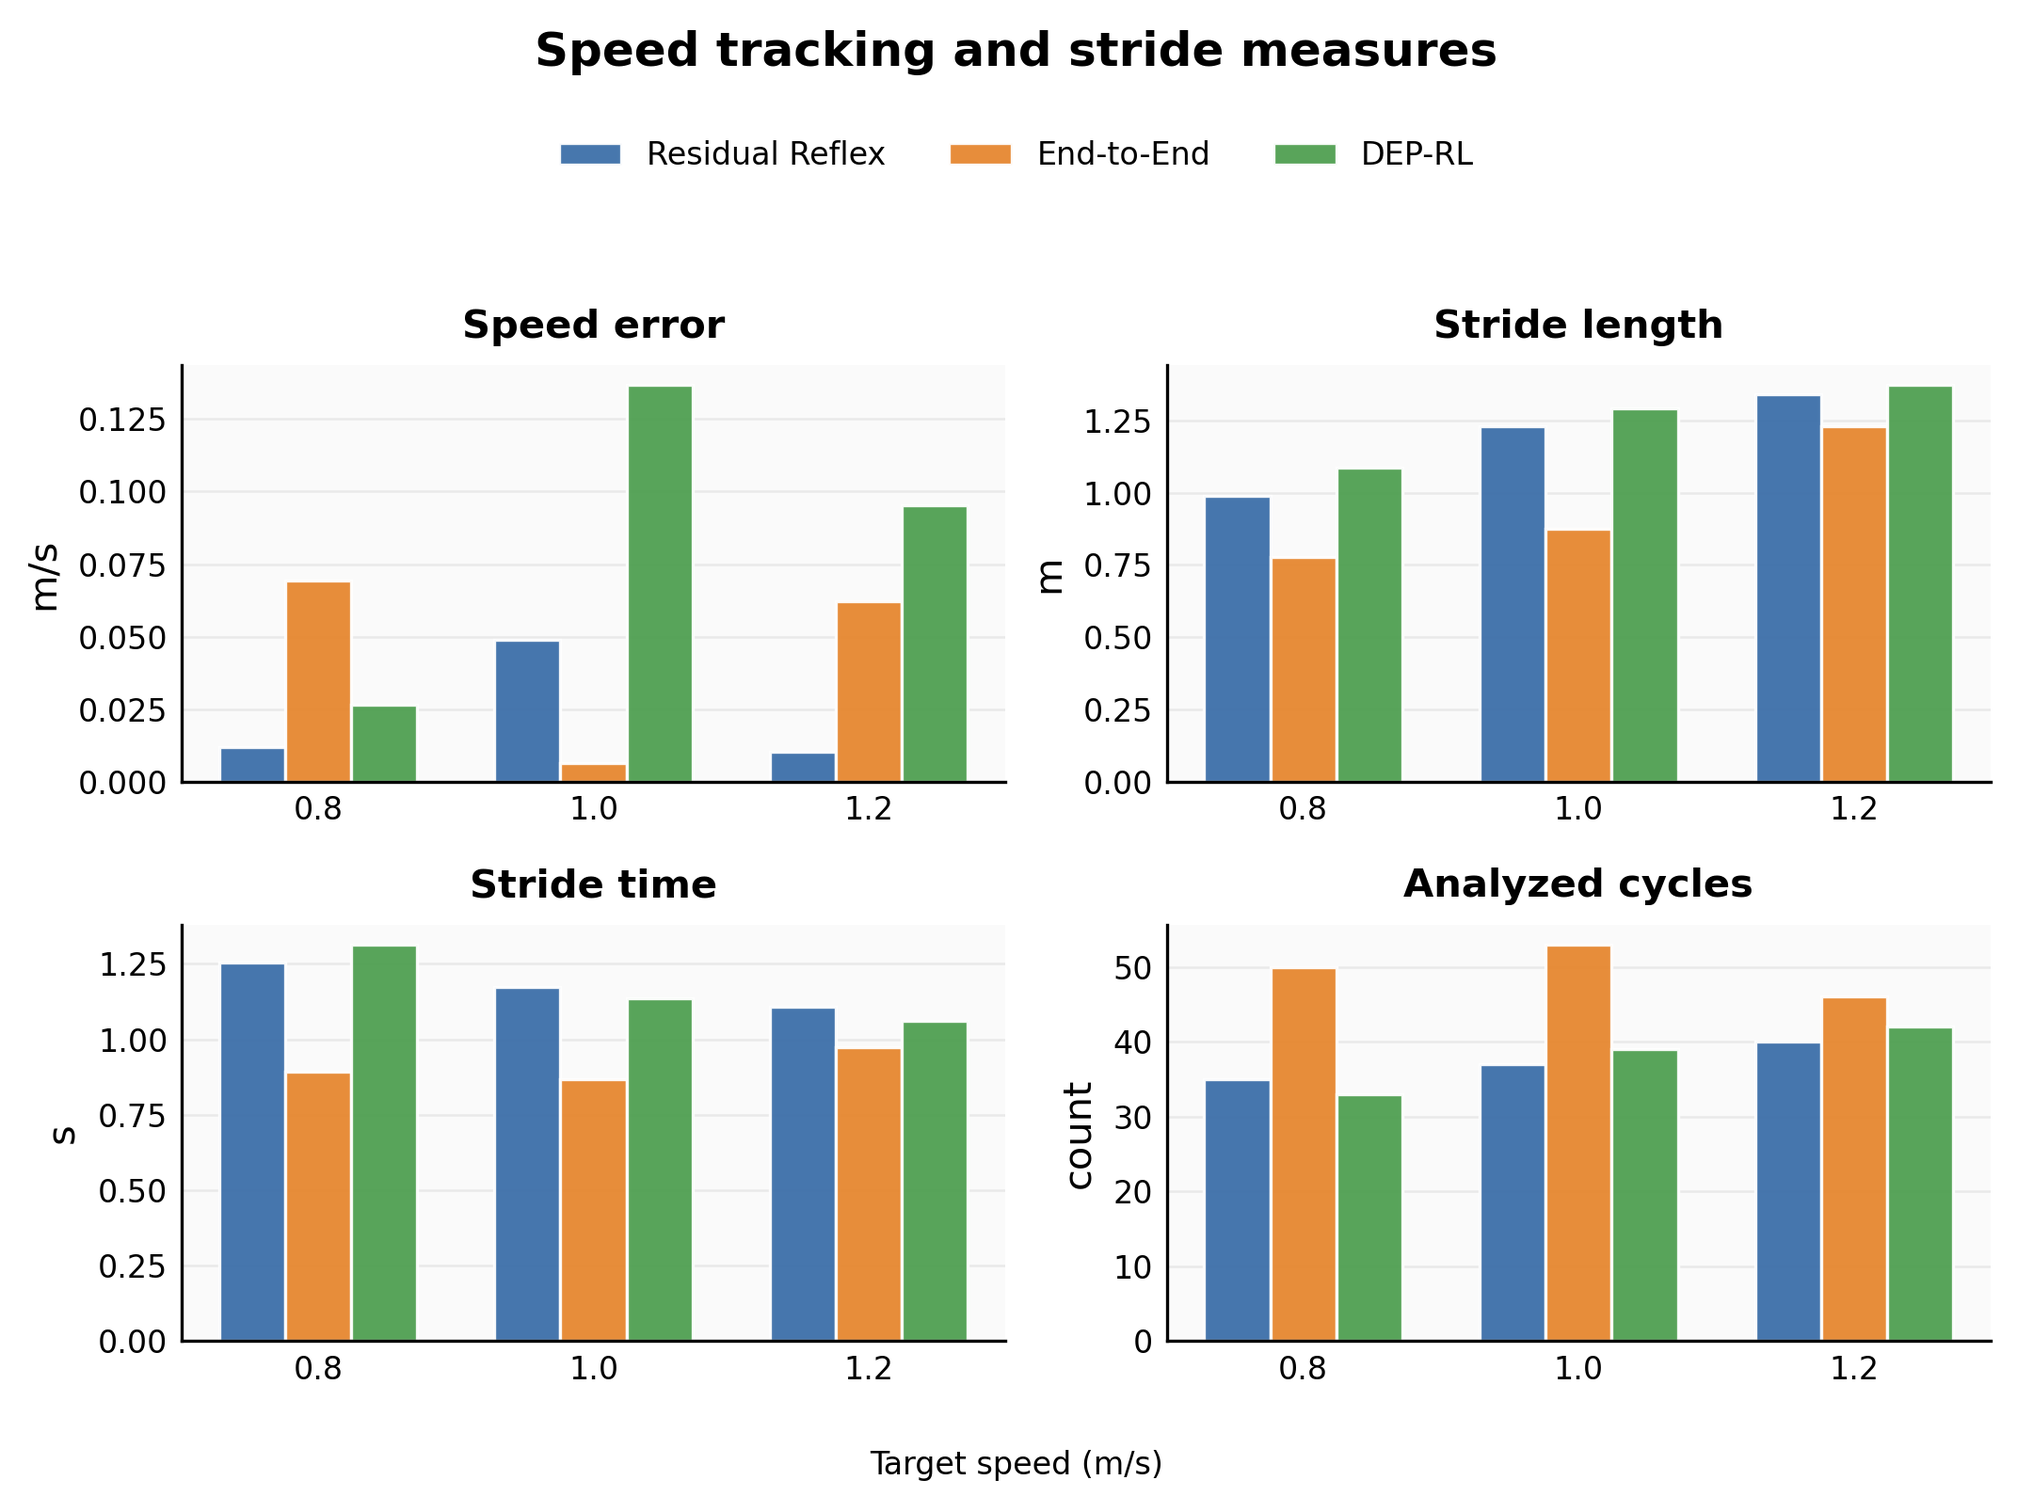
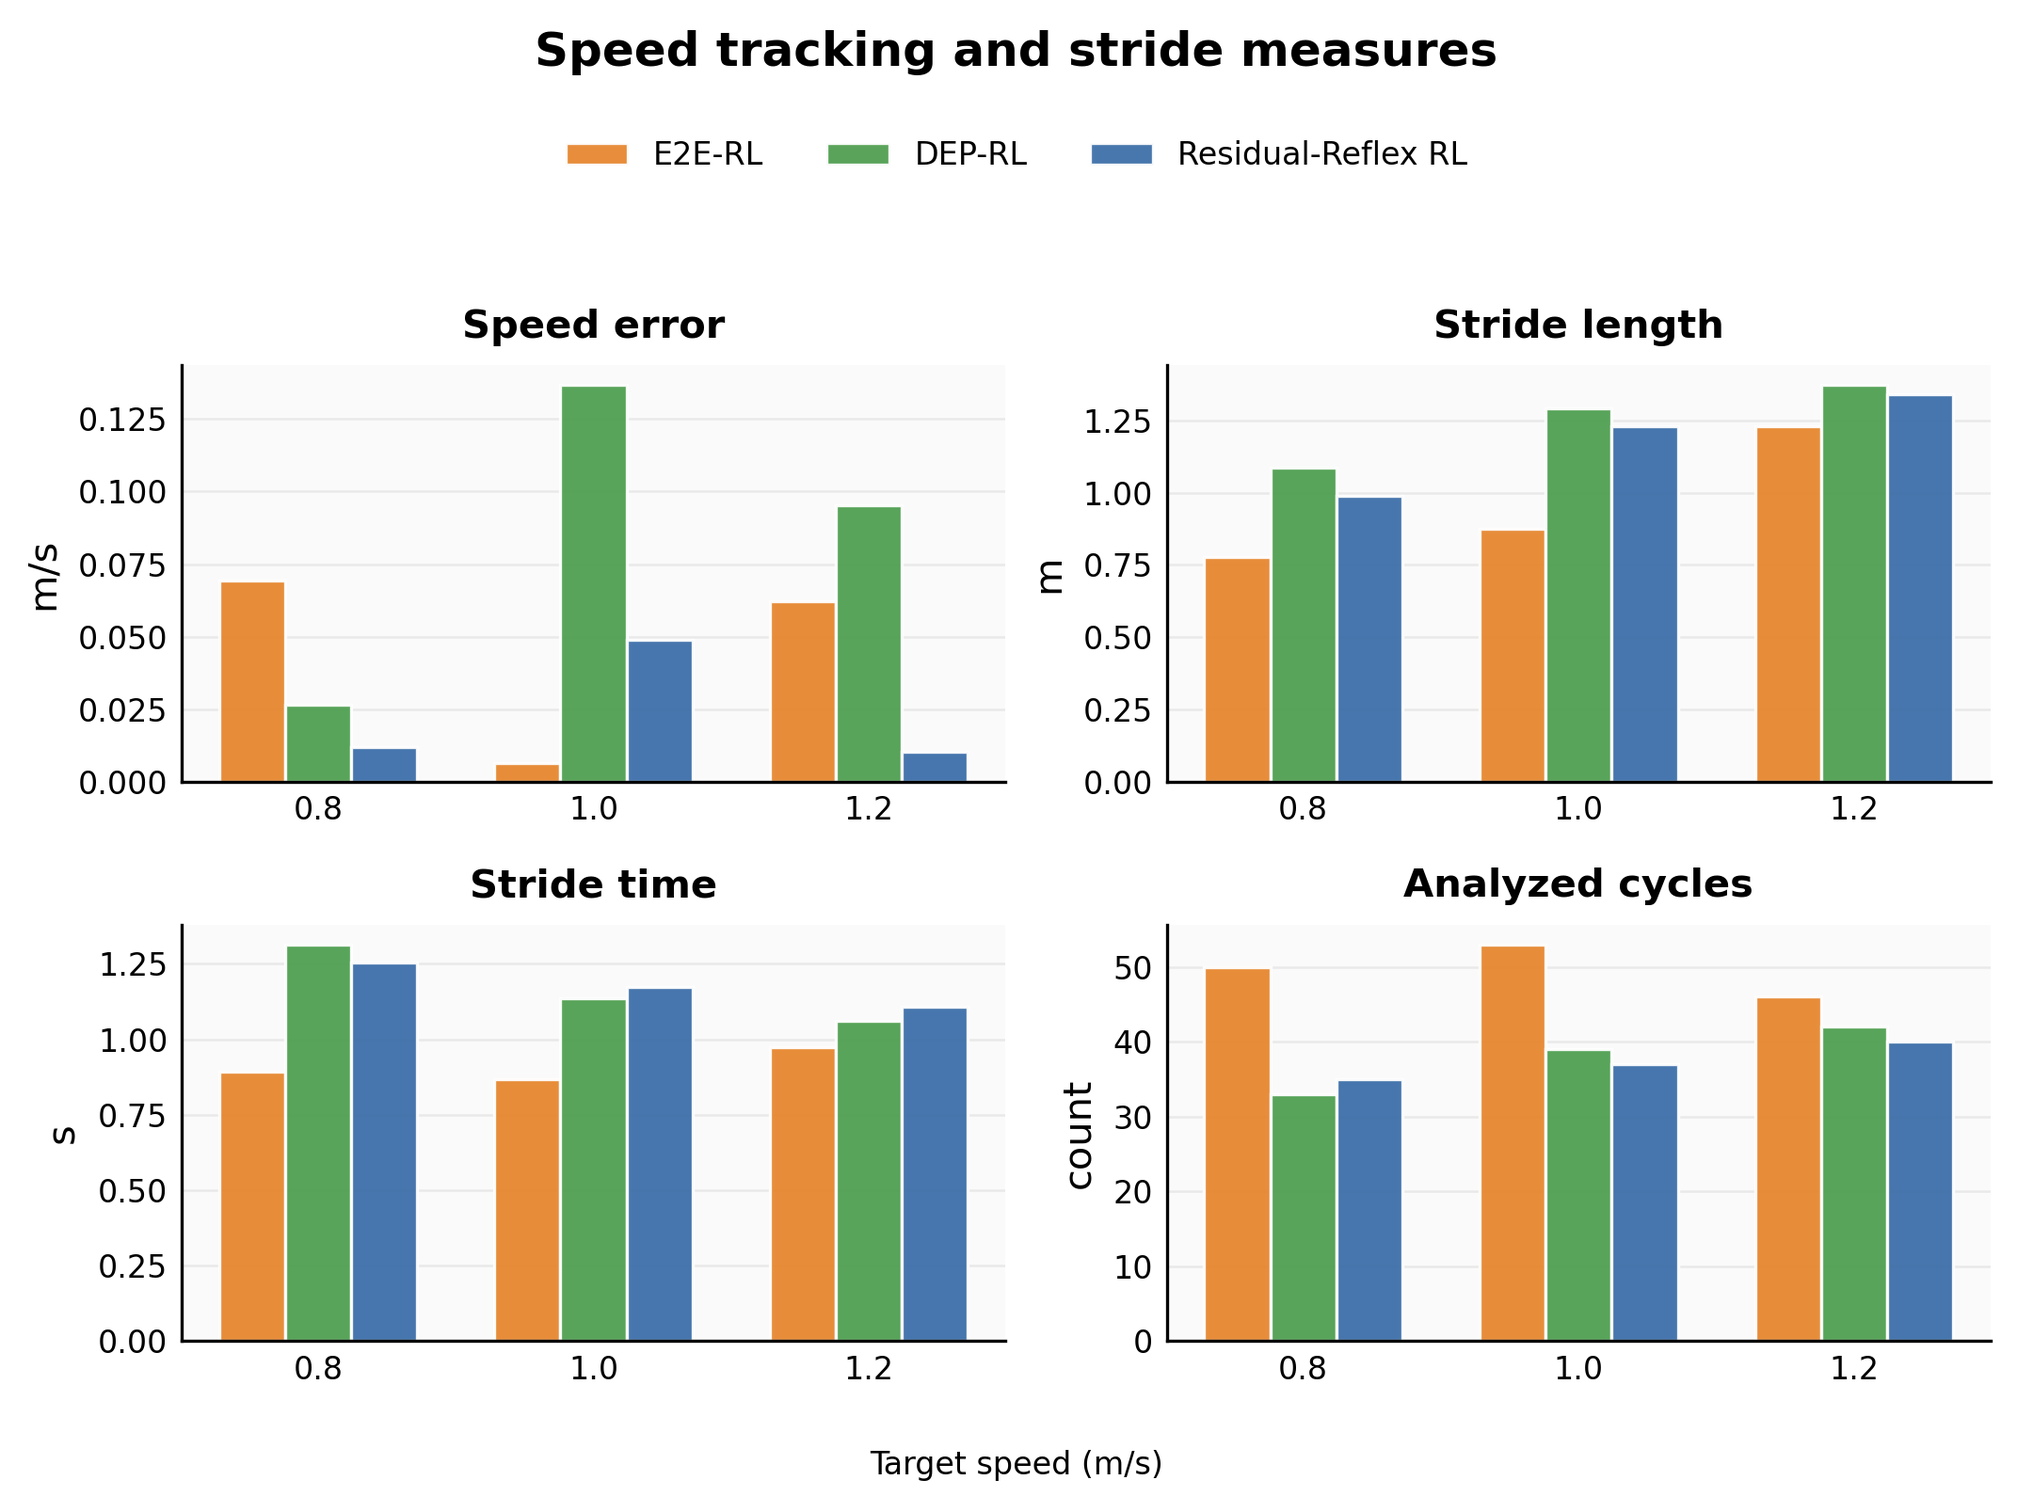
Update baseline naming and comparison framing

diff --git a/main.tex b/main.tex
@@ -58,9 +58,9 @@ actions. The policy therefore operates in a compact reflex-parameter space
 while preserving the biomechanical feedback structure embedded in the
 reflex controller. The pipeline is validated in a Hyfydy-based planar
 musculoskeletal model using target-speed walking tasks at 0.8, 1.0, and
-1.2~m/s. The proposed controller is compared with two direct-control baselines:
-an end-to-end muscle-control policy and a DEP-RL policy using
-DEP-style exploratory feedback. Although the direct-control baselines can
+1.2~m/s. The proposed controller is compared with two direct muscle-control
+baselines: E2E-RL with standard policy exploration and DEP-RL with
+DEP-style embodied exploration. Although these direct muscle-control baselines can
 generate walking motions, their normalized gait-cycle profiles show substantial
 deviations from reference gait, especially in knee kinematics and vertical
 ground reaction force. In contrast, the residual reflex controller achieves
@@ -126,8 +126,8 @@ The main contributions of this letter are as follows:
     musculoskeletal gait generation. The learned policy modulates four selected
     reflex parameters instead of directly commanding all muscle excitations.
     \item The proposed pipeline is implemented in a Hyfydy-based planar
-    musculoskeletal environment and compared with end-to-end muscle-level
-    direct-control baselines on controlled walking tasks.
+    musculoskeletal environment and compared with E2E-RL and DEP-RL
+    direct muscle-control baselines on controlled walking tasks.
     \item The learned gaits are evaluated using normalized gait-cycle
     kinematics and vertical ground reaction force (GRF) profiles. The results
     show that residual reflex modulation improves reference gait-cycle similarity,
@@ -302,12 +302,12 @@ rectus femoris (FEM). Foot--ground contact elements are used to compute
 vertical ground reaction forces for gait analysis.
 
 \subsubsection{Compared Control Interfaces}
-Three DRL policy interfaces were compared. The proposed \emph{Residual Reflex}
-controller uses the four-dimensional reflex-parameter action space described in
-Table~\ref{tab:residual_actions}. The \emph{End-to-End} baseline directly
-outputs muscle-level control actions without reflex modulation. A second
-\emph{DEP-RL} baseline uses the same direct muscle-level action space with
-DEP-style exploratory feedback. All policies were trained with MPO-based
+Three DRL policy interfaces were compared. \emph{E2E-RL} directly outputs
+muscle-level control actions with standard policy exploration. \emph{DEP-RL}
+uses the same direct muscle-level action space, but adds DEP-style embodied
+exploration. The proposed \emph{Residual-Reflex RL} controller instead learns
+four-dimensional residual actions that modulate the selected reflex parameters
+in Table~\ref{tab:residual_actions}. All policies were trained with MPO-based
 off-policy reinforcement learning on the same musculoskeletal model.
 
 \begin{table}[!t]
@@ -321,9 +321,9 @@ off-policy reinforcement learning on the same musculoskeletal model.
 \toprule
 \textbf{Controller} & \textbf{Action dim.} & \textbf{Policy output} \\
 \midrule
-Residual Reflex & 4 & Residual modulation of selected reflex parameters. \\
-End-to-End & 18 & Direct muscle-level control actions. \\
-DEP-RL & 18 & Direct muscle-level control with DEP-style exploratory feedback. \\
+E2E-RL & 18 & Direct muscle-level control actions. \\
+DEP-RL & 18 & Direct muscle-level control with DEP-style embodied exploration. \\
+Residual-Reflex RL & 4 & Residual modulation of selected reflex parameters. \\
 \bottomrule
 \end{tabularx}
 \end{table}
@@ -418,7 +418,7 @@ Table~\ref{tab:spatiotemporal_metrics} reports realized speed, absolute speed
 error, stride length, stride time, and the number of analyzed gait cycles. All
 three policies generated forward walking near the commanded speeds, showing
 that the comparison is made between policies that can complete the target-speed
-walking task. The direct-control baselines generally produced less consistent
+walking task. The direct muscle-control baselines generally produced less consistent
 stride measures, whereas the residual reflex controller generated longer and
 more regular strides. These task-level metrics establish task completion before
 gait naturalness is evaluated.
@@ -437,17 +437,17 @@ speed.}
 \toprule
 \textbf{Target} & \textbf{Method} & \textbf{Real. speed} & \textbf{Error} & \textbf{Stride len.} & \textbf{Stride time} & \textbf{Cycles} \\
 \midrule
-0.8 & Residual Reflex & 0.79 & \textbf{0.01} & 0.99 & 1.26 & 35 \\
- & End-to-End & 0.87 & 0.07 & 0.78 & 0.89 & 50 \\
+0.8 & E2E-RL & 0.87 & 0.07 & 0.78 & 0.89 & 50 \\
  & DEP-RL & 0.83 & 0.03 & 1.09 & 1.31 & 33 \\
+ & Residual-Reflex RL & 0.79 & \textbf{0.01} & 0.99 & 1.26 & 35 \\
 \midrule
-1.0 & Residual Reflex & 1.05 & 0.05 & 1.23 & 1.17 & 37 \\
- & End-to-End & 1.01 & \textbf{0.01} & 0.87 & 0.87 & 53 \\
+1.0 & E2E-RL & 1.01 & \textbf{0.01} & 0.87 & 0.87 & 53 \\
  & DEP-RL & 1.14 & 0.14 & 1.29 & 1.13 & 39 \\
+ & Residual-Reflex RL & 1.05 & 0.05 & 1.23 & 1.17 & 37 \\
 \midrule
-1.2 & Residual Reflex & 1.21 & \textbf{0.01} & 1.34 & 1.11 & 40 \\
- & End-to-End & 1.26 & 0.06 & 1.23 & 0.97 & 46 \\
+1.2 & E2E-RL & 1.26 & 0.06 & 1.23 & 0.97 & 46 \\
  & DEP-RL & 1.30 & 0.10 & 1.37 & 1.06 & 42 \\
+ & Residual-Reflex RL & 1.21 & \textbf{0.01} & 1.34 & 1.11 & 40 \\
 \bottomrule
 \end{tabular}%
 }
@@ -464,14 +464,14 @@ the gait pattern used to achieve the target speed.}
 \subsection{Reference-Based Gait Naturalness}
 Table~\ref{tab:gait_similarity} summarizes the reference-envelope gait-cycle
 scores for the three policy interfaces. Across the three target speeds, the
-proposed residual reflex controller achieved the highest overall
+proposed Residual-Reflex RL controller achieved the highest overall
 reference-based gait naturalness. The average overall score over the three
-speeds was 89.9\% for Residual Reflex, 63.7\% for End-to-End, and 51.3\% for
+speeds was 89.9\% for Residual-Reflex RL, 63.7\% for E2E-RL, and 51.3\% for
 DEP-RL. Fig.~\ref{fig:gait_score_bars} visualizes the main component
 scores and shows that the largest residual-reflex improvements appear in knee
-kinematics, ankle kinematics, and vertical GRF morphology. DEP improved the
-0.8~m/s end-to-end knee score, but it did not consistently improve overall gait
-naturalness, especially at higher speeds where the GRF score collapsed.
+kinematics, ankle kinematics, and vertical GRF morphology. Compared with both
+direct muscle-control baselines, Residual-Reflex RL more consistently preserved
+reference-like joint coordination and stance-phase loading.
 These results indicate that completing the speed-tracking task does not
 necessarily imply reference-consistent joint and contact dynamics.
 
@@ -489,17 +489,17 @@ vertical GRF.}
 \toprule
 \textbf{Target} & \textbf{Method} & \textbf{Real.} & \textbf{Overall} & \textbf{Hip} & \textbf{Knee} & \textbf{Ankle} & \textbf{GRF} \\
 \midrule
-0.8 & Residual Reflex & 0.79 & \textbf{84.2} & 96.6 & \textbf{68.9} & \textbf{78.5} & \textbf{76.7} \\
- & End-to-End & 0.87 & 50.5 & \textbf{98.3} & 18.6 & 0.0 & 35.9 \\
+0.8 & E2E-RL & 0.87 & 50.5 & \textbf{98.3} & 18.6 & 0.0 & 35.9 \\
  & DEP-RL & 0.83 & 54.4 & 72.7 & 50.8 & 8.7 & 39.8 \\
+ & Residual-Reflex RL & 0.79 & \textbf{84.2} & 96.6 & \textbf{68.9} & \textbf{78.5} & \textbf{76.7} \\
 \midrule
-1.0 & Residual Reflex & 1.05 & \textbf{92.3} & \textbf{100.0} & \textbf{82.6} & \textbf{88.9} & \textbf{89.8} \\
- & End-to-End & 1.01 & 70.9 & 99.9 & 45.4 & 61.5 & 48.0 \\
+1.0 & E2E-RL & 1.01 & 70.9 & 99.9 & 45.4 & 61.5 & 48.0 \\
  & DEP-RL & 1.14 & 55.1 & 62.5 & 64.2 & 48.7 & 0.0 \\
+ & Residual-Reflex RL & 1.05 & \textbf{92.3} & \textbf{100.0} & \textbf{82.6} & \textbf{88.9} & \textbf{89.8} \\
 \midrule
-1.2 & Residual Reflex & 1.21 & \textbf{93.2} & \textbf{99.6} & \textbf{88.7} & \textbf{88.6} & \textbf{89.1} \\
- & End-to-End & 1.26 & 69.6 & 88.4 & 52.4 & 85.9 & 21.5 \\
+1.2 & E2E-RL & 1.26 & 69.6 & 88.4 & 52.4 & 85.9 & 21.5 \\
  & DEP-RL & 1.30 & 44.5 & 44.5 & 33.4 & 44.5 & 0.0 \\
+ & Residual-Reflex RL & 1.21 & \textbf{93.2} & \textbf{99.6} & \textbf{88.7} & \textbf{88.6} & \textbf{89.1} \\
 \bottomrule
 \end{tabular}%
 }
@@ -519,7 +519,7 @@ normalized kinematic gait-cycle profiles used to interpret these scores. They
 show where each controller follows or deviates from the reference envelopes
 across pelvic tilt, hip, knee, and ankle profiles. The residual reflex
 controller produced compact and consistent left--right gait cycles across
-speeds, whereas both direct-control baselines showed larger cycle-to-cycle
+speeds, whereas both direct muscle-control baselines showed larger cycle-to-cycle
 variation or larger deviations from the reference envelopes, especially in the
 knee and ankle profiles. The smoother residual-reflex kinematic profiles are
 consistent with the higher knee and ankle scores in
@@ -529,7 +529,7 @@ next subsection.
 \begin{figure}[!t]
 \centerline{\includegraphics[width=\columnwidth]{gait_analysis_residual_vs_e2e_0p8.png}}
 \caption{Reference-envelope kinematic gait-cycle visualization at target speed
-0.8~m/s for Residual Reflex, End-to-End, and DEP-RL. Blue and red
+0.8~m/s for E2E-RL, DEP-RL, and Residual-Reflex RL. Blue and red
 curves denote left and right gait cycles, respectively; the black curve is the
 cycle average and the gray band is the reference envelope.}
 \label{fig:gait_profiles_08}
@@ -538,7 +538,7 @@ cycle average and the gray band is the reference envelope.}
 \begin{figure}[!t]
 \centerline{\includegraphics[width=\columnwidth]{gait_analysis_residual_vs_e2e_1p0.png}}
 \caption{Reference-envelope kinematic gait-cycle visualization at target speed
-1.0~m/s for Residual Reflex, End-to-End, and DEP-RL. Blue and red
+1.0~m/s for E2E-RL, DEP-RL, and Residual-Reflex RL. Blue and red
 curves denote left and right gait cycles, respectively; the black curve is the
 cycle average and the gray band is the reference envelope.}
 \label{fig:gait_profiles_10}
@@ -547,7 +547,7 @@ cycle average and the gray band is the reference envelope.}
 \begin{figure}[!t]
 \centerline{\includegraphics[width=\columnwidth]{gait_analysis_residual_vs_e2e_1p2.png}}
 \caption{Reference-envelope kinematic gait-cycle visualization at target speed
-1.2~m/s for Residual Reflex, End-to-End, and DEP-RL. Blue and red
+1.2~m/s for E2E-RL, DEP-RL, and Residual-Reflex RL. Blue and red
 curves denote left and right gait cycles, respectively; the black curve is the
 cycle average and the gray band is the reference envelope.}
 \label{fig:gait_profiles_12}
@@ -556,19 +556,19 @@ cycle average and the gray band is the reference envelope.}
 \subsection{GRF Morphology}
 Because ground reaction force reflects how the controller loads and unloads the
 body during stance, we further examine the vertical GRF profiles separately in
-Fig.~\ref{fig:grf_morphology}. The residual reflex controller produced smoother
+Fig.~\ref{fig:grf_morphology}. The Residual-Reflex RL controller produced smoother
 stance-phase force profiles that remained closer to the reference envelope
-across the tested speeds. In contrast, both direct-control baselines generated
+across the tested speeds. In contrast, both direct muscle-control baselines generated
 less regular loading patterns, including sharper early-stance peaks, reduced
 late-stance support, or force profiles outside the reference envelope. This
 difference is consistent with the component scores in
-Table~\ref{tab:gait_similarity}, where the residual reflex controller achieved
-higher GRF scores than both direct-control baselines at all three speeds.
+Table~\ref{tab:gait_similarity}, where Residual-Reflex RL achieved
+higher GRF scores than both direct muscle-control baselines at all three speeds.
 
 \begin{figure}[!t]
 \centerline{\includegraphics[width=\columnwidth]{grf_morphology_comparison.png}}
-\caption{Vertical GRF morphology across target speeds for Residual Reflex,
-End-to-End, and DEP-RL. Blue and red thin curves show individual left
+\caption{Vertical GRF morphology across target speeds for E2E-RL, DEP-RL, and
+Residual-Reflex RL. Blue and red thin curves show individual left
 and right normalized gait cycles, respectively; the black curve denotes the
 cycle mean, the gray band denotes the reference envelope used for post-hoc
 evaluation, and the panel annotations report the GRF reference-envelope score.}
@@ -578,10 +578,8 @@ evaluation, and the panel annotations report the GRF reference-envelope score.}
 \subsection{Symmetry and Repeatability}
 Table~\ref{tab:symmetry_variability} reports left--right waveform differences
 and stride variability. The residual reflex controller consistently produced
-lower left--right RMSE and lower stride time/length CV than both direct-control
-baselines. DEP reduced stride variability relative to the end-to-end baseline in
-some cases, but it did not improve bilateral waveform symmetry. This supports
-the qualitative observation that the residual reflex policy generates a more
+lower left--right RMSE and lower stride time/length CV than both direct muscle-control
+baselines. This supports the qualitative observation that Residual-Reflex RL generates a more
 regular and bilaterally symmetric gait pattern.
 
 \begin{table}[!t]
@@ -597,17 +595,17 @@ Lower values indicate more symmetric or more repeatable gait.}
 \toprule
 \textbf{Target} & \textbf{Method} & \textbf{Hip} & \textbf{Knee} & \textbf{Ankle} & \textbf{GRF} & \textbf{Time CV} & \textbf{Length CV} \\
 \midrule
-0.8 & Residual Reflex & \textbf{0.80} & \textbf{1.03} & \textbf{0.89} & \textbf{0.04} & \textbf{1.98} & \textbf{5.66} \\
- & End-to-End & 2.92 & 5.75 & 6.36 & 0.10 & 9.05 & 14.88 \\
+0.8 & E2E-RL & 2.92 & 5.75 & 6.36 & 0.10 & 9.05 & 14.88 \\
  & DEP-RL & 11.20 & 11.73 & 11.59 & 0.12 & 7.96 & 11.04 \\
+ & Residual-Reflex RL & \textbf{0.80} & \textbf{1.03} & \textbf{0.89} & \textbf{0.04} & \textbf{1.98} & \textbf{5.66} \\
 \midrule
-1.0 & Residual Reflex & \textbf{1.78} & \textbf{1.85} & \textbf{0.97} & \textbf{0.03} & \textbf{1.51} & \textbf{1.86} \\
- & End-to-End & 2.97 & 4.08 & 2.18 & 0.08 & 6.05 & 8.27 \\
+1.0 & E2E-RL & 2.97 & 4.08 & 2.18 & 0.08 & 6.05 & 8.27 \\
  & DEP-RL & 4.54 & 10.12 & 16.27 & 0.28 & 2.62 & 5.27 \\
+ & Residual-Reflex RL & \textbf{1.78} & \textbf{1.85} & \textbf{0.97} & \textbf{0.03} & \textbf{1.51} & \textbf{1.86} \\
 \midrule
-1.2 & Residual Reflex & \textbf{0.87} & \textbf{0.87} & \textbf{0.46} & \textbf{0.02} & \textbf{0.70} & \textbf{0.74} \\
- & End-to-End & 3.43 & 3.00 & 9.84 & 0.04 & 3.87 & 5.83 \\
+1.2 & E2E-RL & 3.43 & 3.00 & 9.84 & 0.04 & 3.87 & 5.83 \\
  & DEP-RL & 8.33 & 5.83 & 6.31 & 0.34 & 2.29 & 4.78 \\
+ & Residual-Reflex RL & \textbf{0.87} & \textbf{0.87} & \textbf{0.46} & \textbf{0.02} & \textbf{0.70} & \textbf{0.74} \\
 \bottomrule
 \end{tabular}%
 }
@@ -623,7 +621,7 @@ speeds. Lower values indicate more symmetric and more repeatable gait cycles.}
 \subsection{Discussion}
 The results indicate that the main benefit of residual reflex learning is a
 more structured and physiologically plausible gait pattern. In the current
-data, end-to-end policies can achieve successful forward walking, yet their
+data, direct muscle-control policies can achieve successful forward walking, yet their
 gait-cycle profiles may deviate substantially from reference kinematics and
 GRF. This observation suggests that learned musculoskeletal gait should be
 assessed not only by task completion, but also through gait-cycle kinematics,
@@ -650,8 +648,8 @@ space and preserves a structured neuromechanical prior within the control loop.
 
 As an initial validation, experiments in a Hyfydy-based planar musculoskeletal
 model showed that the residual reflex controller produced gait cycles with
-higher reference-envelope gait-cycle scores than an end-to-end muscle-control
-baseline at 0.8, 1.0, and 1.2~m/s.
+higher reference-envelope gait-cycle scores than both direct muscle-control
+baselines at 0.8, 1.0, and 1.2~m/s.
 The improvement was most evident in knee kinematics, ankle kinematics, and
 vertical GRF morphology. Additional cycle-level analysis showed lower
 left--right waveform differences and lower stride variability, indicating more
